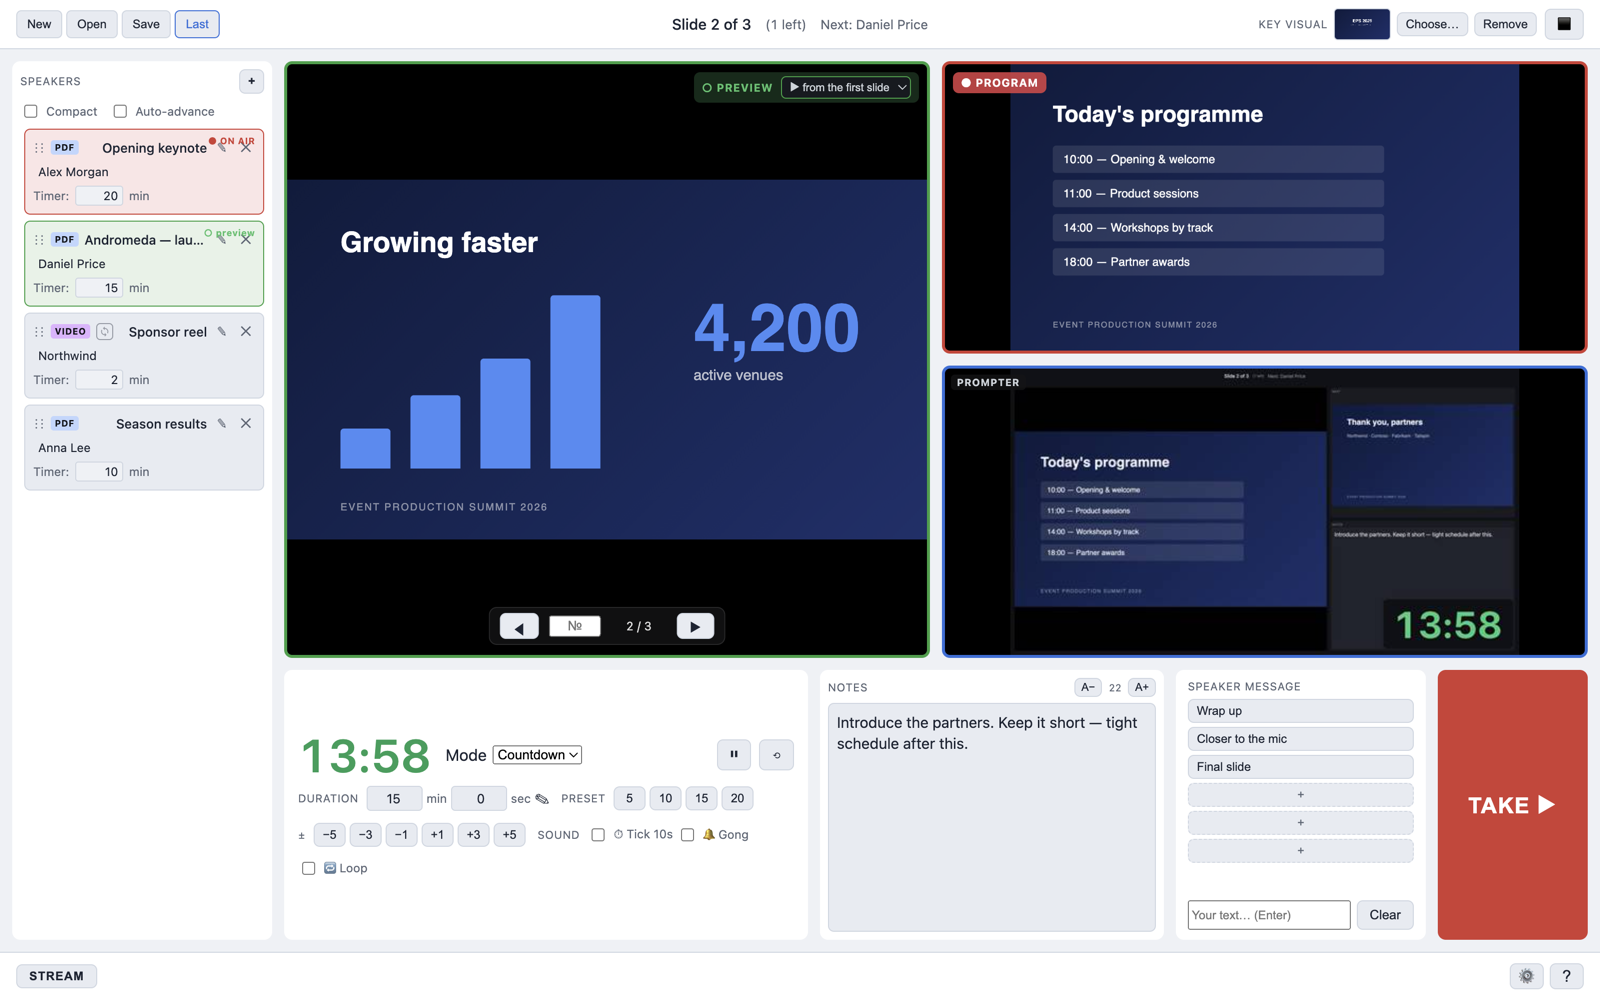
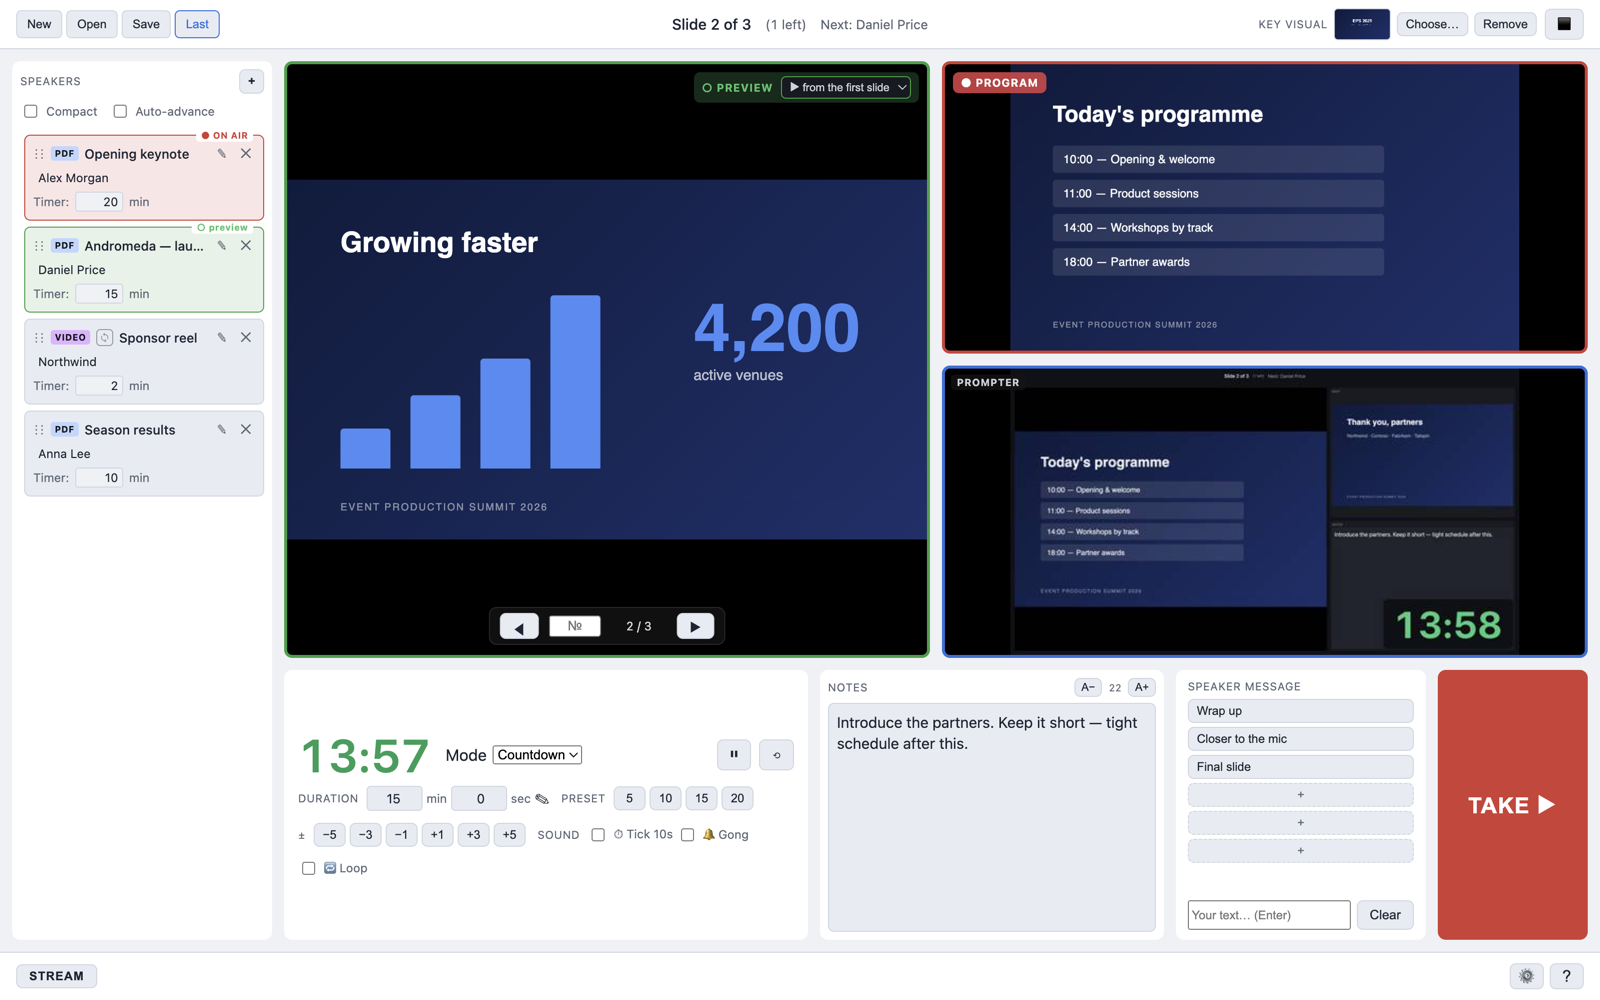
Плейлист: метки «эфир/превью» на рамке карточки, названия слева
Метка в углу карточки ложилась на ✎ и ✕ — теперь ярлычок на верхней рамке:
название не укорачивается, высота карточки не меняется. Названия жались
вправо — наследовали выравнивание от rtl-списка (полоса прокрутки слева).
Скриншот оператора в README обновлён.

Changed region(s): [[0.0, 0.124, 0.1562, 0.372], [0.0, 0.372, 0.1562, 0.496], [0.25, 0.744, 0.2812, 0.775]]

diff --git a/src/renderer/presenter/style.css b/src/renderer/presenter/style.css
@@ -686,9 +686,12 @@ body[data-role="operator"] #output-monitors { grid-area: monitor; }
   /* Scrollbar on the LEFT (rtl trick) so it never overlaps the ✕ delete buttons */
   direction: rtl;
   padding-left: 4px;
+  /* место под ярлычок «эфир/превью» у первой карточки — иначе его срежет прокрутка */
+  padding-top: 6px;
 }
 .playlist-list > .playlist-item {
   direction: ltr; /* content stays normal; only the scrollbar moved */
+  text-align: left; /* иначе от rtl списка наследуется выравнивание вправо — названия жались к ✎ */
 }
 /* Thin, elegant scrollbar (Chromium/Electron) */
 .playlist-list::-webkit-scrollbar { width: 7px; }
@@ -725,13 +728,24 @@ body[data-role="operator"] #output-monitors { grid-area: monitor; }
 }
 .playlist-item.in-preview::before {
   content: var(--t-badge-preview, '○ превью');
+  color: #4ac26b;
+}
+/* Метка состояния — ярлычок на верхней рамке, а не в углу карточки: в углу
+   она ложилась на ✎ и ✕. На рамке не отнимает ширину у названия и не меняет
+   высоту карточки (иначе список прыгал бы на каждом TAKE). */
+.playlist-item.in-preview::before,
+.playlist-item.on-air::after {
   position: absolute;
-  top: 6px;
-  right: 8px;
+  top: -6px;
+  right: 10px;
+  padding: 0 5px;
   font-size: 9px;
+  line-height: 12px;
   font-weight: 700;
   letter-spacing: 0.04em;
-  color: #4ac26b;
+  background: var(--panel);
+  border-radius: 3px;
+  pointer-events: none;
 }
 /* When an item is both on-air and staged, the red ЭФИР label wins the corner */
 .playlist-item.on-air.in-preview::before { content: none; }
@@ -742,12 +756,6 @@ body[data-role="operator"] #output-monitors { grid-area: monitor; }
 }
 .playlist-item.on-air::after {
   content: var(--t-badge-program, '● ЭФИР');
-  position: absolute;
-  top: 6px;
-  right: 8px;
-  font-size: 9px;
-  font-weight: 700;
-  letter-spacing: 0.04em;
   color: var(--danger, #d64045);
 }
 /* Материал не найден на диске: запись видна как проблемная сразу, а не в
